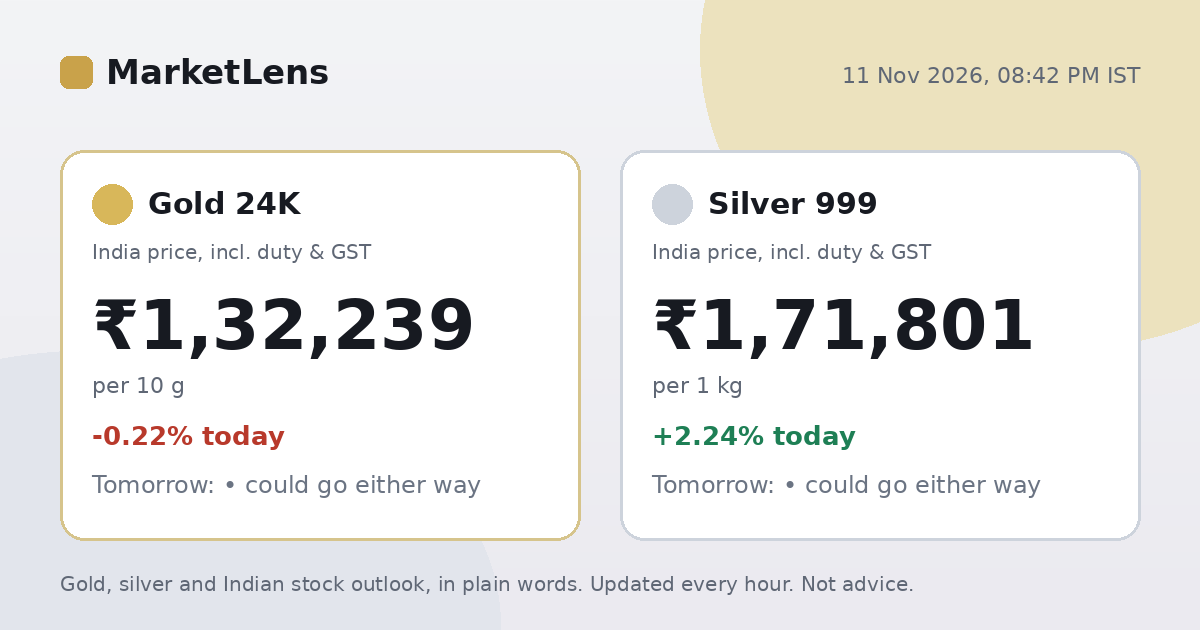
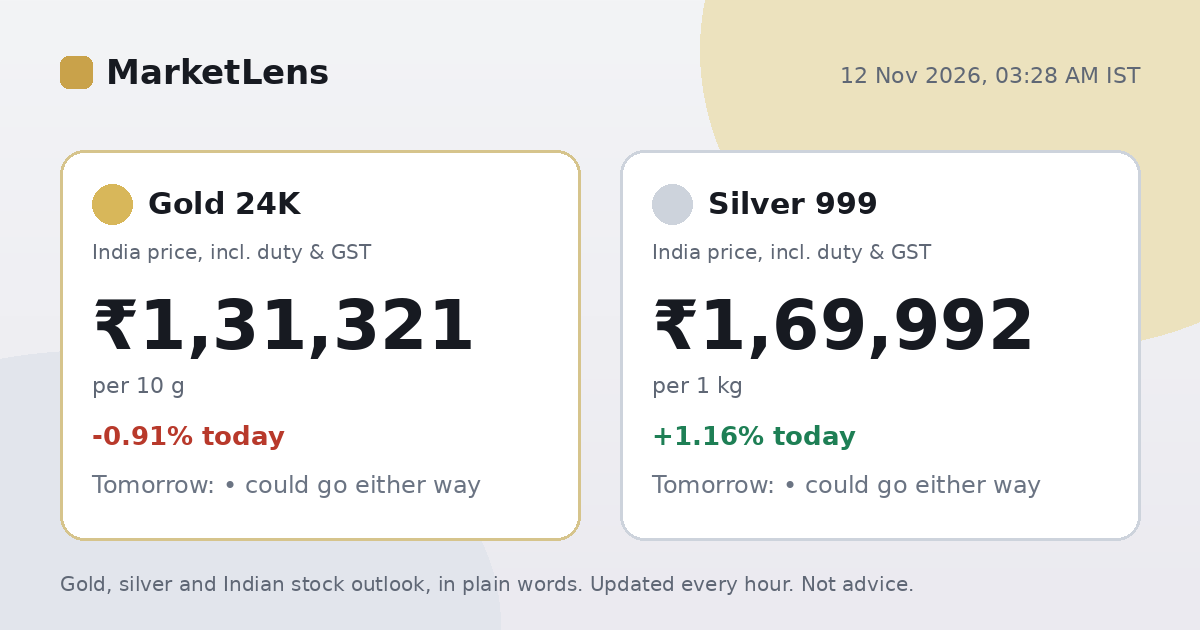
hourly run 2026-11-11T21:58:41Z

diff --git a/docs/index.html b/docs/index.html
@@ -4,17 +4,17 @@
 <meta charset="utf-8">
 <meta name="viewport" content="width=device-width, initial-scale=1">
 <title>MarketLens — Gold, silver and Indian stock outlook, in plain words</title>
-<meta name="description" content="Gold 24K ₹1,32,239/10 g · Silver ₹1,71,801/kg · updated 11 Nov 08:42 PM IST">
+<meta name="description" content="Gold 24K ₹1,31,321/10 g · Silver ₹1,69,992/kg · updated 12 Nov 03:28 AM IST">
 <meta property="og:type" content="website">
 <meta property="og:site_name" content="MarketLens">
 <meta property="og:title" content="Today's gold and silver price, and where they may head next">
-<meta property="og:description" content="Gold 24K ₹1,32,239/10 g · Silver ₹1,71,801/kg · updated 11 Nov 08:42 PM IST">
-<meta property="og:image" content="https://saibalajit28.github.io/marketlens/og.png?v=1794409960">
+<meta property="og:description" content="Gold 24K ₹1,31,321/10 g · Silver ₹1,69,992/kg · updated 12 Nov 03:28 AM IST">
+<meta property="og:image" content="https://saibalajit28.github.io/marketlens/og.png?v=1794434321">
 <meta property="og:image:width" content="1200"><meta property="og:image:height" content="630">
 <meta name="twitter:card" content="summary_large_image">
 <meta name="twitter:title" content="Today's gold and silver price, and where they may head next">
-<meta name="twitter:description" content="Gold 24K ₹1,32,239/10 g · Silver ₹1,71,801/kg · updated 11 Nov 08:42 PM IST">
-<meta name="twitter:image" content="https://saibalajit28.github.io/marketlens/og.png?v=1794409960">
+<meta name="twitter:description" content="Gold 24K ₹1,31,321/10 g · Silver ₹1,69,992/kg · updated 12 Nov 03:28 AM IST">
+<meta name="twitter:image" content="https://saibalajit28.github.io/marketlens/og.png?v=1794434321">
 <link rel="preconnect" href="https://fonts.googleapis.com">
 <link href="https://fonts.googleapis.com/css2?family=Manrope:wght@400;500;600;700&display=swap" rel="stylesheet">
 <style>
